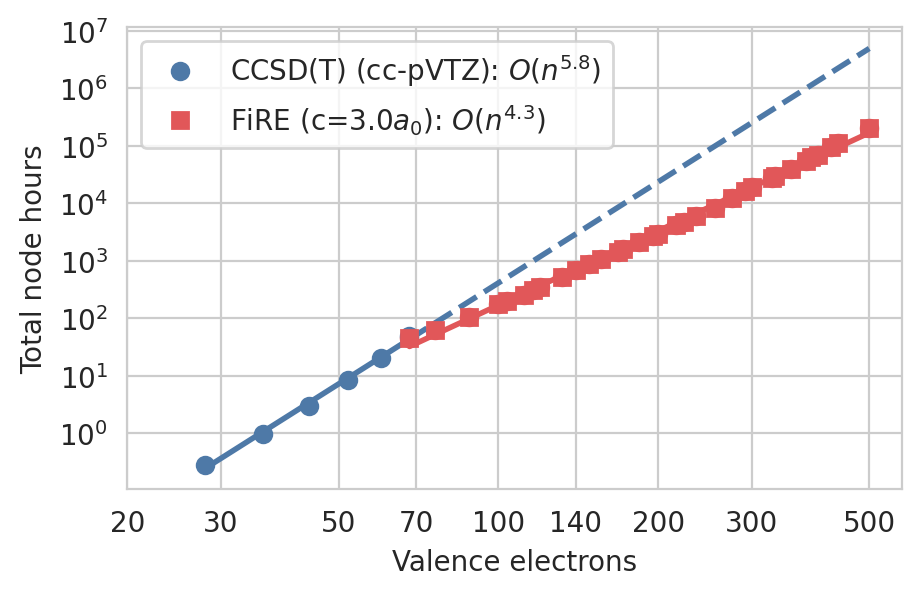
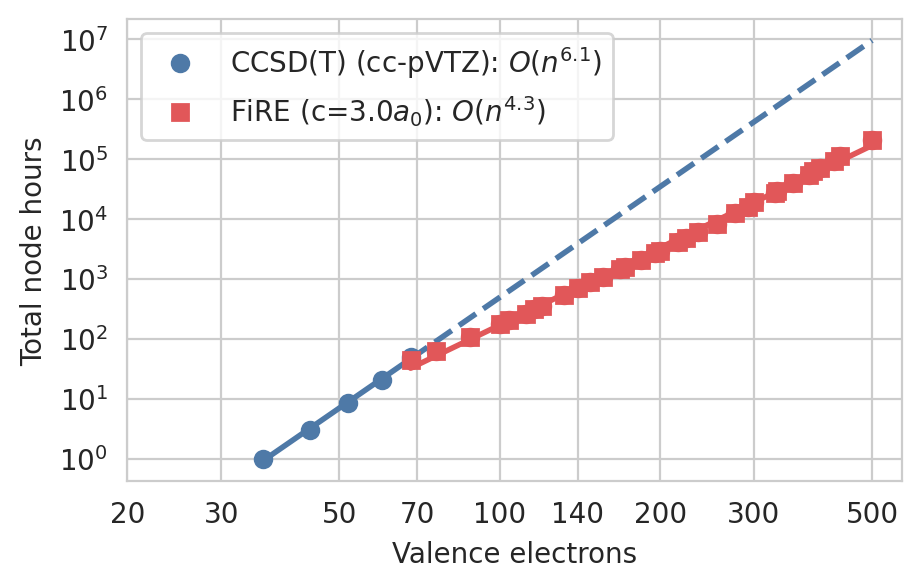
orca vs fire plot

diff --git a/src/sparse_wf/plot_scripts/orca_runtime/plot_orca_runtime.py b/src/sparse_wf/plot_scripts/orca_runtime/plot_orca_runtime.py
@@ -7,7 +7,7 @@ import numpy as np
 
 sns.set_style("whitegrid")
 
-N_EL_MIN_FOR_FIT = 20
+N_EL_MIN_FOR_FIT = 30
 BASIS_SET = "cc-pVTZ"
 FIRE_BATCH_SIZE = 512  # 1 node with 8 GPUs for 4096 total batch size
 NUM_STEPS_BASE_CASE = 100e3
@@ -21,7 +21,7 @@ def fit_and_plot(ax, x, y, color, ls="-", n_fit_min=N_EL_MIN_FOR_FIT, n_plot_fit
     fit_coeffs = np.polyfit(np.log(x_fit), np.log(y_fit), 1)
     exponent = fit_coeffs[0]
     # x_fit = np.array([min(x_fit), 500])
-    for x_fit, ls in zip(np.array([[min(x_fit), max(x_fit)], [max(x_fit), n_plot_fit_max]]), ['-', '--']):
+    for x_fit, ls in zip(np.array([[min(x_fit), max(x_fit)], [max(x_fit), n_plot_fit_max]]), ["-", "--"]):
         y_fitted = np.exp(np.polyval(fit_coeffs, np.log(x_fit)))
         ax.plot(x_fit, y_fitted, color=color, lw=2, ls=ls)
     return exponent
@@ -35,6 +35,7 @@ def format_exponent(exp):
 df_ccsdt = pd.read_csv("cumulene_orca_PBE0_CCSDT.csv")
 df_ccsdt = df_ccsdt.sort_values(["num_atoms", "num_basis_functions"])
 df_ccsdt["num_valence_electrons"] = (df_ccsdt.num_atoms - 4) * 4 + 4
+df_ccsdt = df_ccsdt[df_ccsdt.num_atoms > (6 + 4)]
 
 
 # FiRE
